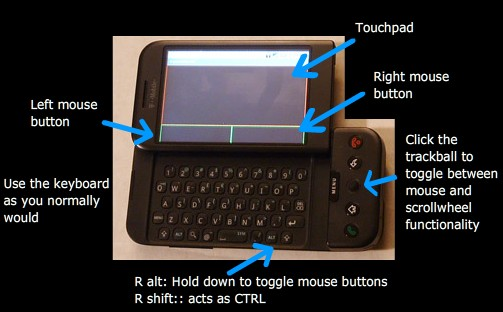
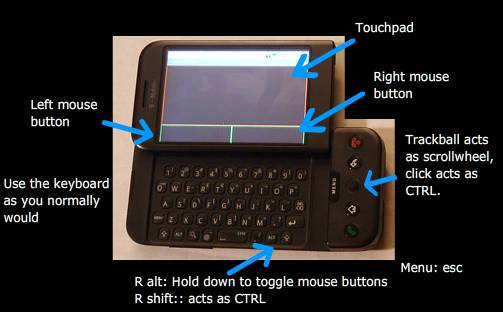
Added support for most soft keys on the soft keyboard. Some keys without keyboard equivalents not supported.

diff --git a/RemoteDroidServer/src/OSCWorld.java b/RemoteDroidServer/src/OSCWorld.java
@@ -208,12 +208,13 @@ public class OSCWorld extends World {
 	}
 
 	private void scrollEvent(int dir) {
-		this.robot.mouseWheel(dir * this.scrollMod);
+		this.robot.mouseWheel(-dir * this.scrollMod);
 	}
 
 	private void keyboardEvent(int type, int keycode, String value) {
 		//
 		KeyCodeData data;
+		
 		switch (type) {
 		case 0:
 			// key down
@@ -223,7 +224,8 @@ public class OSCWorld extends World {
 				buttonEvent(0, 0);
 				return;
 			}
-
+			//
+			data = (KeyCodeData) translator.codes.get(new Integer(keycode));
 			// it's not a mouse event, treat as key
 			if (this.translator.isModifier(keycode)) {
 				this.modified = true;
@@ -235,28 +237,36 @@ public class OSCWorld extends World {
 			if (this.translator.isCtrl(keycode)) {
 				this.keyPress(KeyEvent.VK_CONTROL);
 			}
-			data = (KeyCodeData) translator.codes.get(new Integer(keycode));
 			if (data != null) {
+				// for some of the symbols, like at.
+				if (!this.shifted && data.shifted) {
+					this.keyPress(KeyEvent.VK_SHIFT);
+				}
 				if (this.modified) {
-					if (data.shifted && !this.shifted) {
+					if (data.modshifted && !this.shifted) {
 						this.keyPress(KeyEvent.VK_SHIFT);
+						//System.out.println("Keycode:"+String.valueOf(keycode)+", local:"+String.valueOf(data.localcode));
 					}
-					if (!data.shifted && this.shifted) {
+					if (!data.modshifted && this.shifted) {
 						this.keyRelease(KeyEvent.VK_SHIFT);
 					}
 					//
 					if (data.modifiedcode != -1)
 						this.keyPress(data.modifiedcode);
 					//
-					if (data.shifted && !this.shifted) {
+					if (data.modshifted && !this.shifted) {
 						this.keyRelease(KeyEvent.VK_SHIFT);
 					}
-					if (!data.shifted && this.shifted) {
+					if (!data.modshifted && this.shifted) {
 						this.keyPress(KeyEvent.VK_SHIFT);
 					}
 				} else {
 					try {
-						this.keyPress(data.localcode);
+						if (this.shifted && data.shiftedcode != -1) {
+							this.keyPress(data.shiftedcode);
+						} else {
+							this.keyPress(data.localcode);
+						}
 					} catch (IllegalArgumentException e) {
 						System.out.println("Invalid key code: " + data.localcode);
 					}
@@ -271,7 +281,8 @@ public class OSCWorld extends World {
 				buttonEvent(1, 0);
 				return;
 			}
-
+			//
+			data = (KeyCodeData) translator.codes.get(new Integer(keycode));
 			// it's not a mouse event, treat as key
 			if (this.translator.isModifier(keycode)) {
 				this.modified = false;
@@ -283,27 +294,34 @@ public class OSCWorld extends World {
 			if (this.translator.isCtrl(keycode)) {
 				keyRelease(KeyEvent.VK_CONTROL);
 			}
-			data = (KeyCodeData) translator.codes.get(new Integer(keycode));
 			if (data != null) {
+				// for some of the symbols, like at.
+				if (!this.shifted && data.shifted) {
+					this.keyRelease(KeyEvent.VK_SHIFT);
+				}
 				if (this.modified) {
-					if (data.shifted && !this.shifted) {
+					if (data.modshifted && !this.shifted) {
 						this.keyPress(KeyEvent.VK_SHIFT);
 					}
-					if (!data.shifted && this.shifted) {
+					if (!data.modshifted && this.shifted) {
 						this.keyRelease(KeyEvent.VK_SHIFT);
 					}
 					//
 					if (data.modifiedcode != -1)
 						this.keyRelease(data.modifiedcode);
 					//
-					if (data.shifted && !this.shifted) {
+					if (data.modshifted && !this.shifted) {
 						this.keyRelease(KeyEvent.VK_SHIFT);
 					}
-					if (!data.shifted && this.shifted) {
+					if (!data.modshifted && this.shifted) {
 						this.keyPress(KeyEvent.VK_SHIFT);
 					}
 				} else {
-					this.keyRelease(data.localcode);
+					if (this.shifted && data.shiftedcode != -1) {
+						this.keyRelease(data.shiftedcode);
+					} else {
+						this.keyRelease(data.localcode);
+					}
 				}
 			}
 			break;

diff --git a/RemoteDroidServer/src/KeyTranslator.java b/RemoteDroidServer/src/KeyTranslator.java
@@ -81,9 +81,11 @@ public class KeyTranslator {
 			data = new KeyCodeData();
 			keydata = (Element)mods.item(i);
 			data.name = keydata.getAttribute("name");
-			data.shifted = "1".compareTo(keydata.getAttribute("modshift")) == 0;
+			data.modshifted = "1".compareTo(keydata.getAttribute("modshift")) == 0;
 			data.localcode = Integer.parseInt(keydata.getAttribute("localcode"));
 			data.modifiedcode = Integer.parseInt(keydata.getAttribute("modified"));
+			data.shifted = "1".compareTo(keydata.getAttribute("shifted")) == 0;
+			data.shiftedcode = Integer.parseInt(keydata.getAttribute("shiftedcode"));
 			keycode = Integer.parseInt(keydata.getAttribute("code"));
 			//
 			this.codes.put(new Integer(keycode), data);

diff --git a/RemoteDroidServer/src/KeyCodeData.java b/RemoteDroidServer/src/KeyCodeData.java
@@ -1,6 +1,8 @@
 class KeyCodeData {
 	public String name;
-	public boolean shifted;
+	public boolean modshifted;
 	public int localcode;
 	public int modifiedcode;
+	public boolean shifted;
+	public int shiftedcode;
 }
